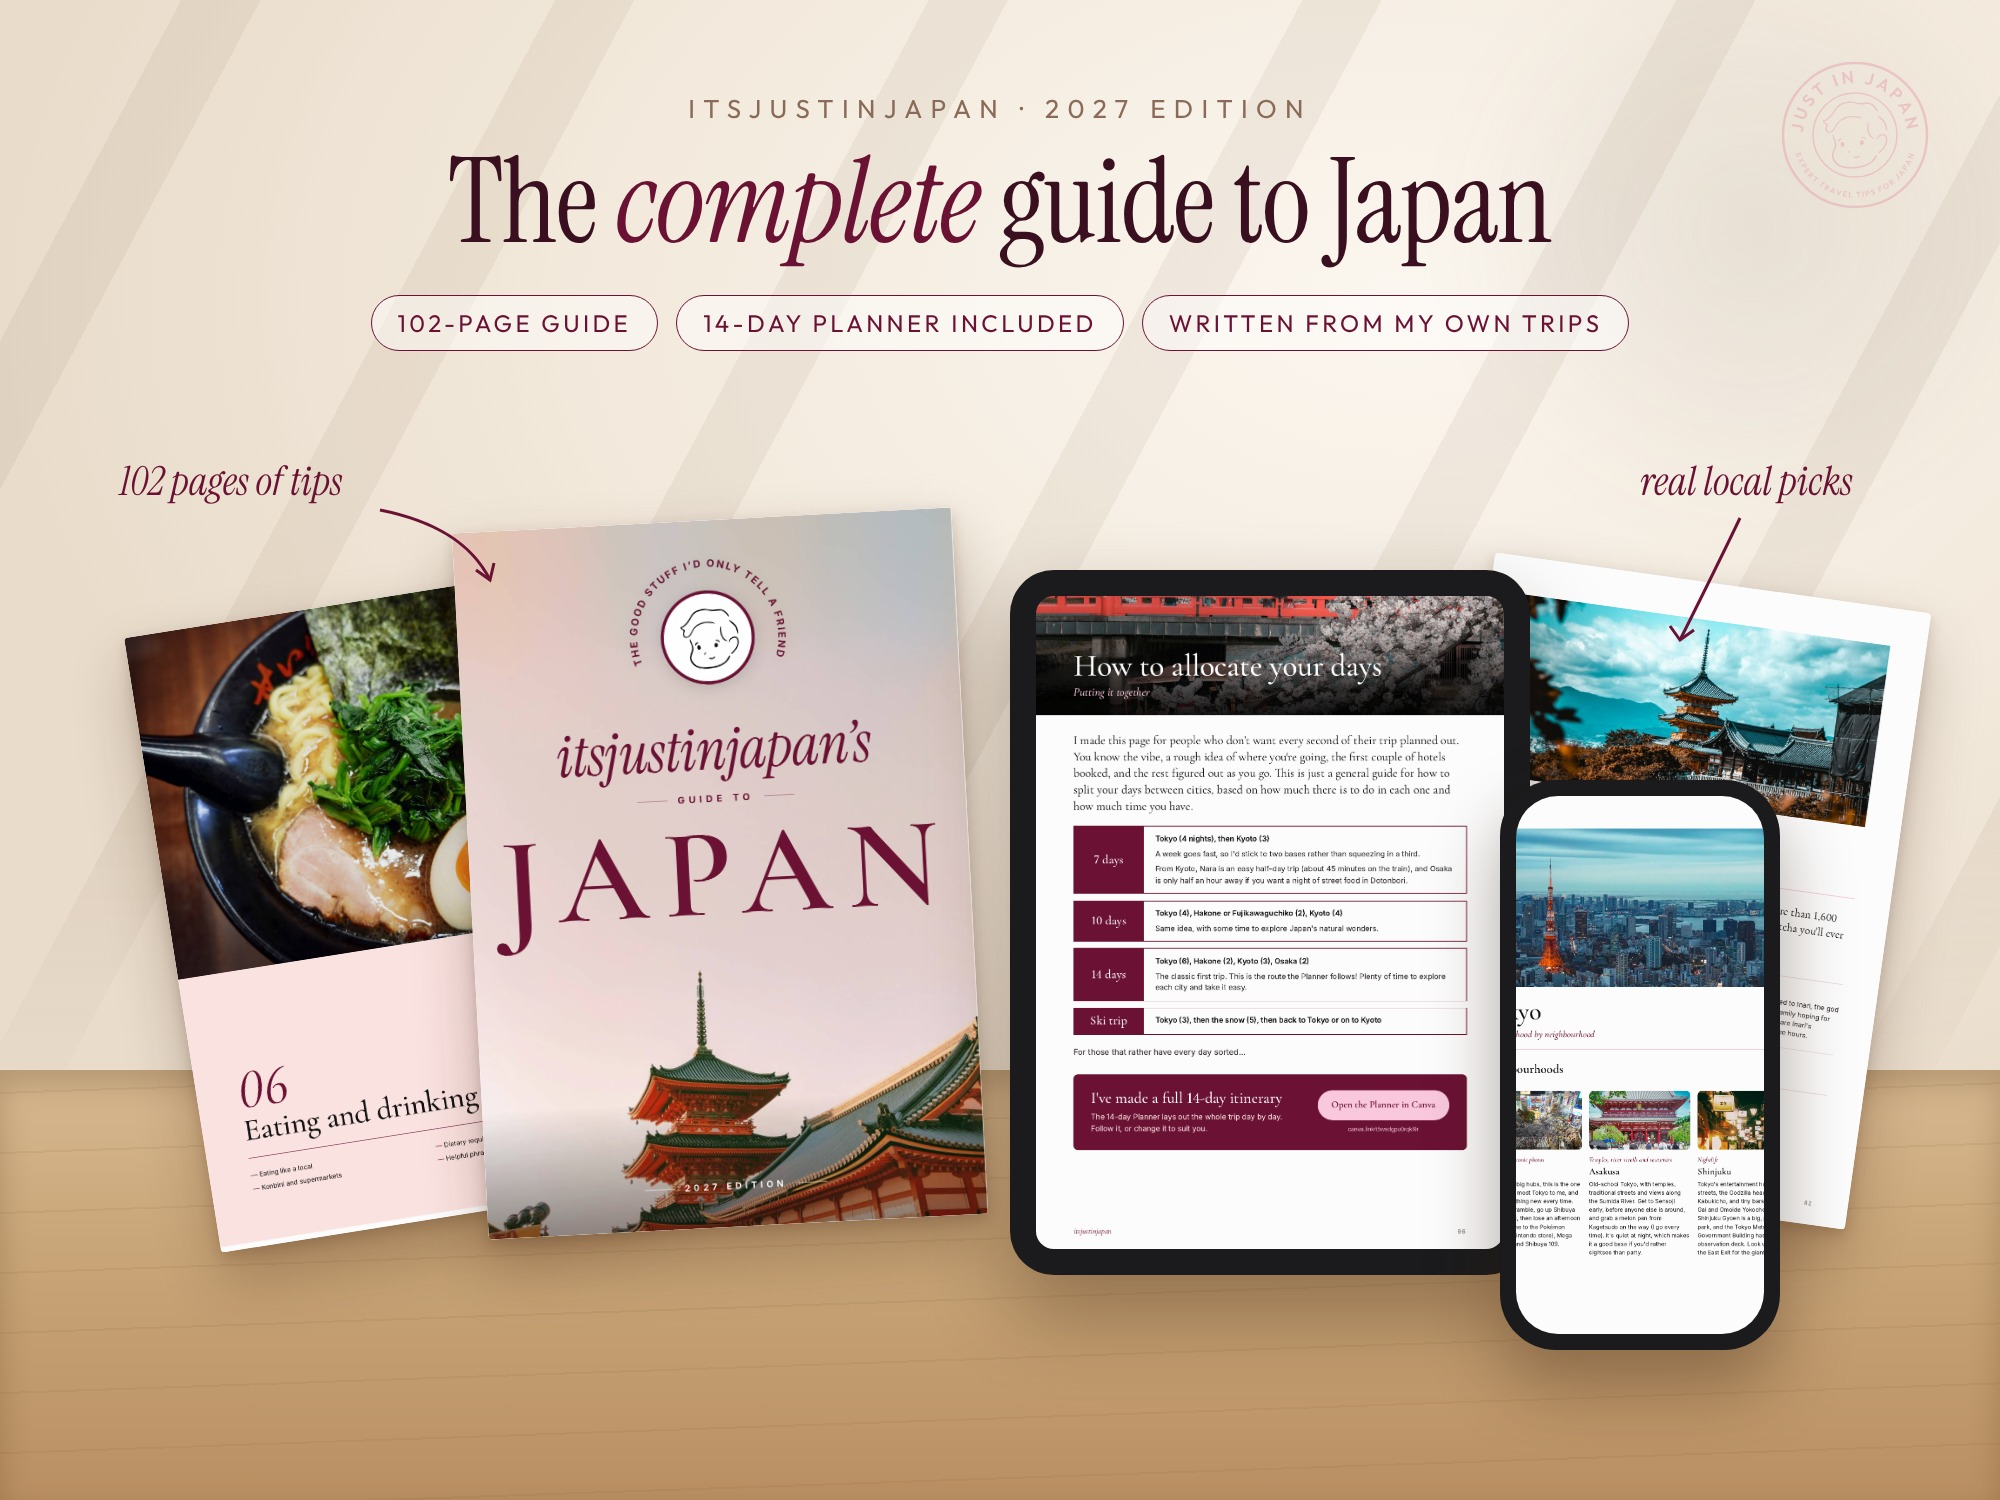
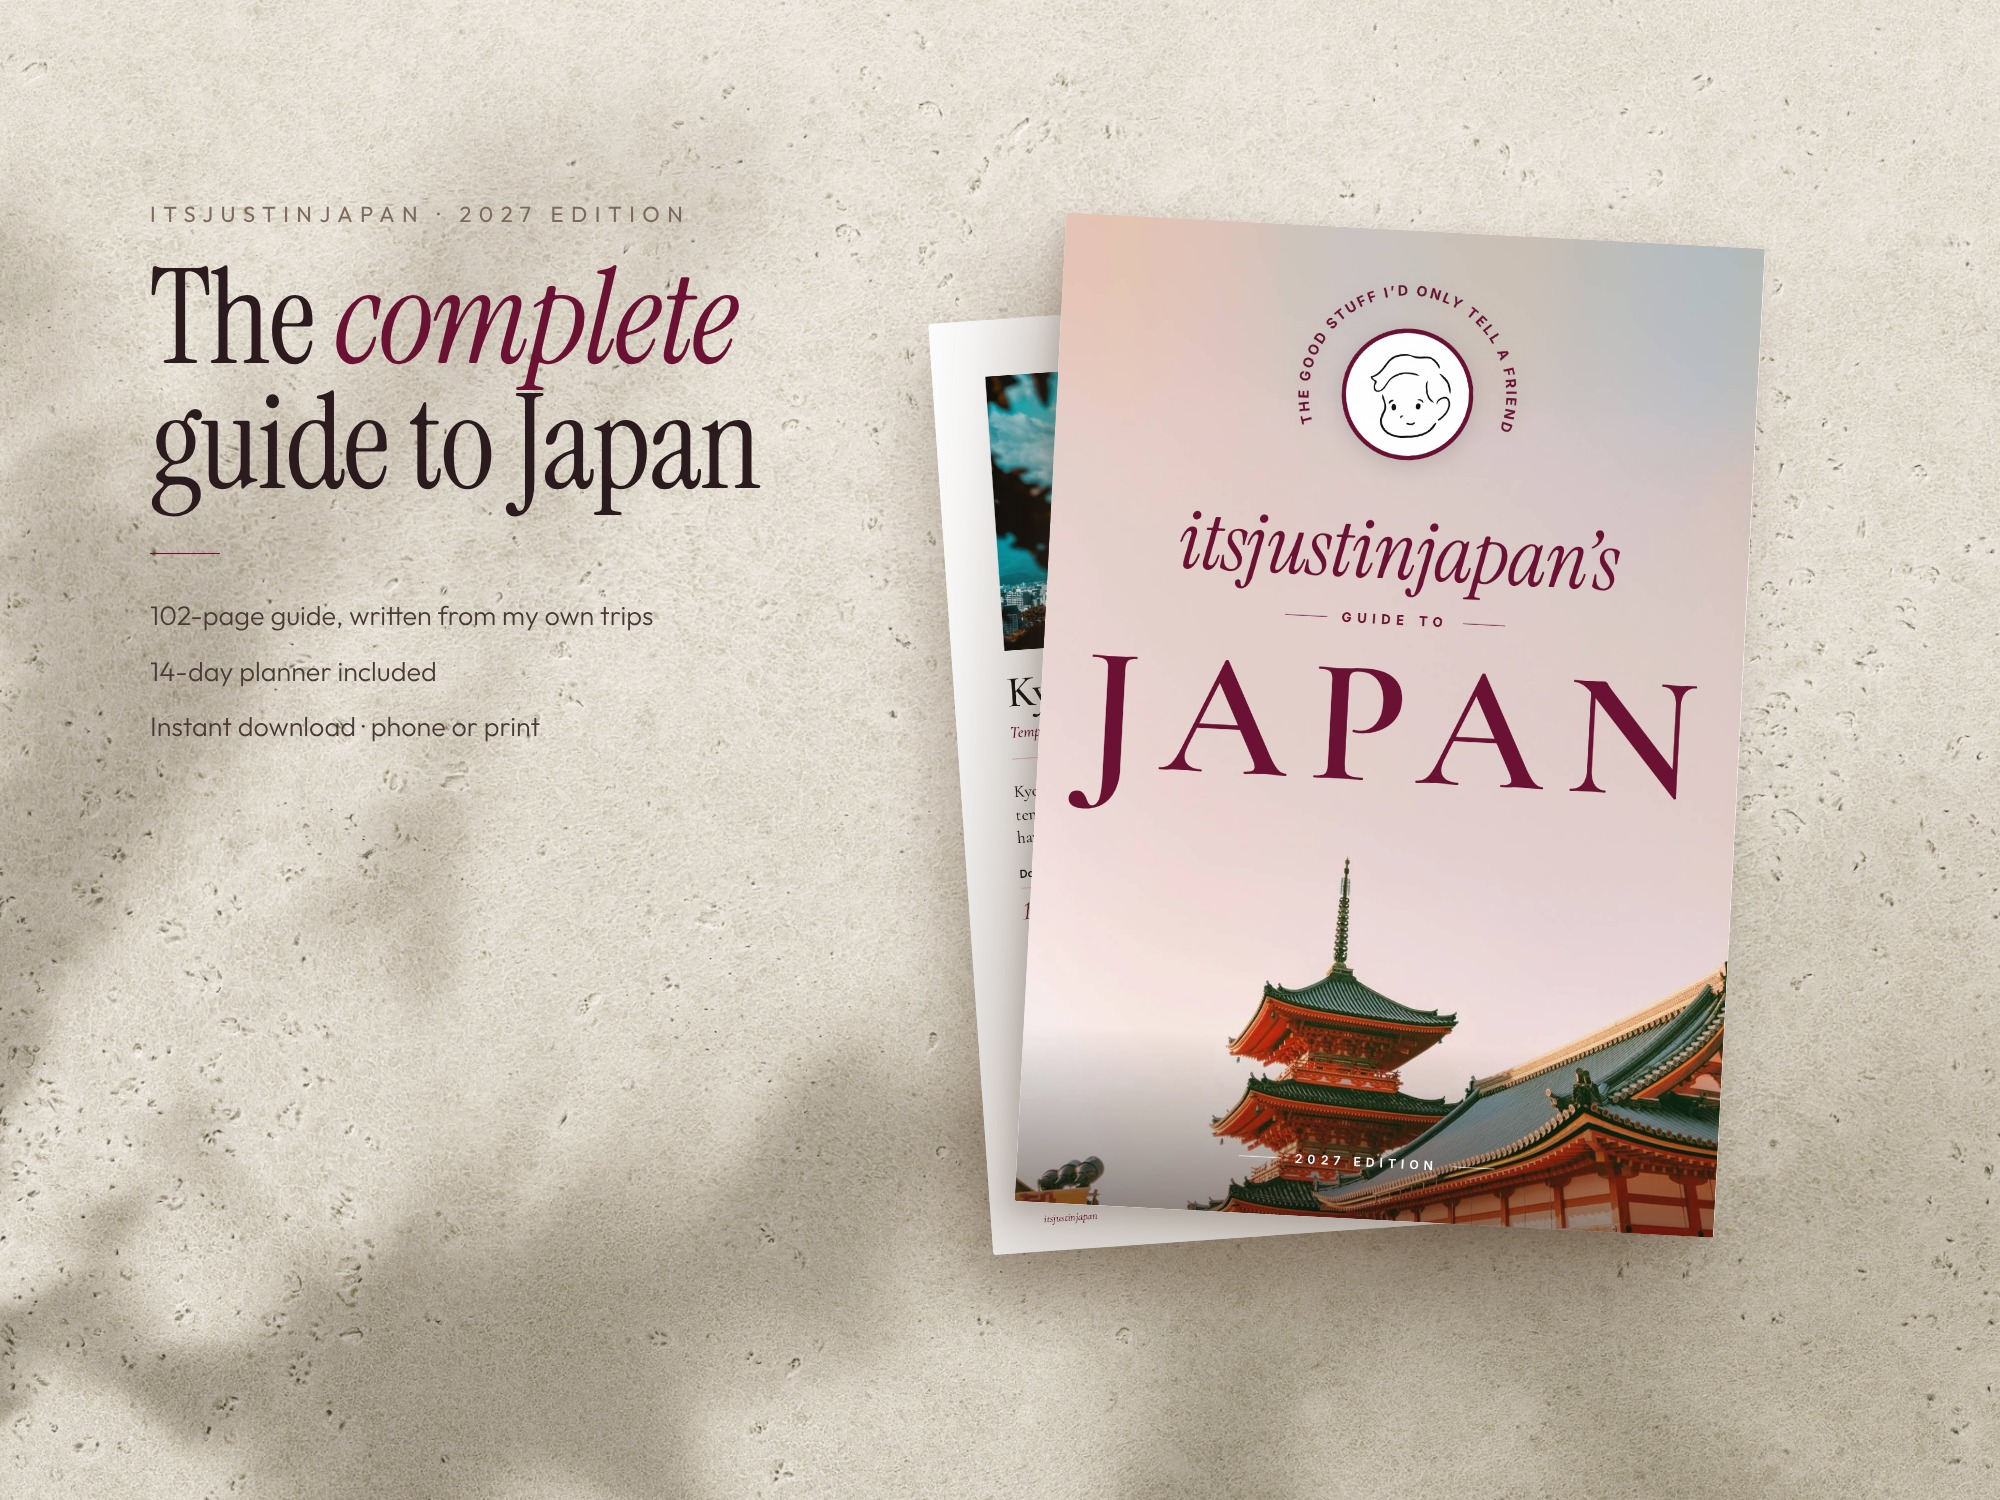
Listing hero v2: calmer, real wall photo, no clutter
Claude-Session: https://claude.ai/code/session_01Ki5uwK1E6UNvwVLzA4yviP

diff --git a/listing-images/src/heroA.html b/listing-images/src/heroA.html
@@ -1,0 +1,36 @@
+<!doctype html><html><head><meta charset="utf-8"><style>
+@font-face{font-family:IS;src:url(instrument-serif.woff2)}
+@font-face{font-family:IS;font-style:italic;src:url(instrument-serif-italic.woff2)}
+@font-face{font-family:Outfit;src:url(outfit.woff2);font-weight:100 900}
+*{box-sizing:border-box;margin:0}
+body{width:2000px;height:1500px;overflow:hidden;position:relative;font-family:Outfit;color:#2b1a1e;background:#e9e2d8}
+.bg{position:absolute;inset:0;background:url(wall.jpg) center/cover;filter:saturate(.75) brightness(1.04)}
+.warm{position:absolute;inset:0;background:linear-gradient(180deg,rgba(246,238,226,.35),rgba(236,224,208,.15))}
+.head{position:absolute;left:150px;top:200px;width:720px}
+.kicker{font-size:22px;letter-spacing:.34em;text-transform:uppercase;color:#7d6a5e}
+h1{font-family:IS;font-weight:400;font-size:132px;line-height:.95;margin-top:28px;color:#2b1a1e;letter-spacing:-.015em}
+h1 em{color:#6b1234}
+.line{width:70px;height:1.5px;background:#6b1234;margin:46px 0 34px}
+ul{list-style:none;padding:0;font-size:27px;line-height:2.05;color:#4a3a36;font-weight:300}
+.price{margin-top:44px;font-size:22px;letter-spacing:.28em;text-transform:uppercase;color:#6b1234}
+.book{position:absolute;left:1040px;top:230px;width:700px;height:990px;transform:rotate(3deg);
+ box-shadow:-40px 60px 90px rgba(70,45,25,.30),-8px 12px 22px rgba(70,45,25,.18);border-radius:3px;overflow:hidden}
+.book img{width:100%;height:100%;object-fit:cover;display:block}
+.under{position:absolute;left:960px;top:300px;width:660px;height:933px;transform:rotate(-4deg);background:#fff;
+ box-shadow:-20px 40px 60px rgba(70,45,25,.22);border-radius:3px;overflow:hidden}
+.under img{width:100%;height:100%;object-fit:cover;display:block}
+.phone{position:absolute;left:840px;top:880px;width:340px;height:520px;background:#141414;border-radius:54px;padding:14px;
+ box-shadow:-30px 50px 80px rgba(60,35,20,.35)}
+.phone img{display:block;width:100%;height:100%;object-fit:cover;object-position:top;border-radius:42px}
+</style></head><body>
+<div class="bg"></div><div class="warm"></div>
+<div class="head">
+ <div class="kicker">itsjustinjapan · 2027 edition</div>
+ <h1>The <em>complete</em><br>guide to Japan</h1>
+ <div class="line"></div>
+ <ul><li>102-page guide, written from my own trips</li><li>14-day planner included</li><li>Instant download · phone or print</li></ul>
+</div>
+<div class="under"><img src="p82-082.png"></div>
+<div class="book"><img src="p1-001.png"></div>
+
+</body></html>

diff --git a/listing-images/README.md b/listing-images/README.md
@@ -1,11 +1,12 @@
 # Listing images (new $40 guide, launch)
 
 Premium set for the shop / Etsy listing, to A/B test against the current images. 2000×1500 (4:3).
-Look: warm cream wall with soft window-light shadows, light wood table, Instrument Serif title with an italic key phrase,
-maroon (#6b1234) pills and handwritten-style notes, real guide pages on paper, iPad and iPhone mock-ups, the Just in Japan stamp.
+Look (v2, after Justin found v1 cluttered): **restraint**. A real photographed plaster wall with leaf shadows (Unsplash, Sergey Kotenev),
+the title left in Instrument Serif with one maroon (#6b1234) italic word, a thin rule, three quiet lines of Outfit, and the guide
+as large printed pages on the right. No pills, arrows, devices or stamp. One idea per image.
 
 Build: edit `src/*.html` (pages come from japan-the-complete-guide.pdf via `pdftoppm -r 130`), then
-`node src/shot.cjs $PWD/src/hero.html out.png`.
+`node src/shot.cjs $PWD/src/heroA.html out.png` (hero.html is the rejected v1).
 
 Planned set: 01 hero · 02 day-by-day itinerary · 03 food & activity picks · 04 areas & where to stay ·
 05 the Canva planner · 06 tips you only learn the hard way · 07 proof (5,000+ travellers, reviews) · 08 what you get.
